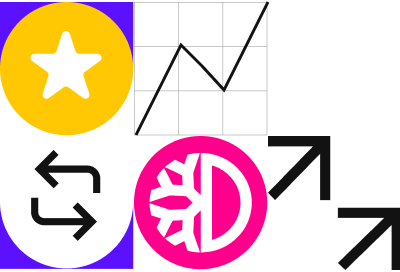
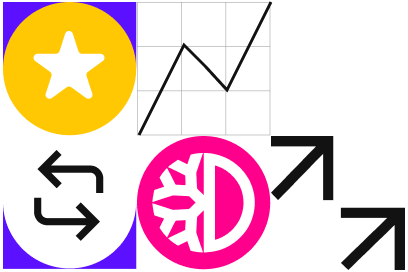
Updated code from code review and added new assets

diff --git a/mobile-app/app/components/VersionTagV2.tsx b/mobile-app/app/components/VersionTagV2.tsx
@@ -1,20 +1,20 @@
 import { tailwind } from '@tailwind'
 import { nativeApplicationVersion } from 'expo-application'
-import { ThemedText, ThemedView } from '@components/themed'
+import { ThemedTextV2, ThemedViewV2 } from '@components/themed'
 import { translate } from '@translations'
 
 export function VersionTagV2 (): JSX.Element {
   return (
-    <ThemedView>
-      <ThemedText
+    <ThemedViewV2>
+      <ThemedTextV2
         dark={tailwind('text-mono-dark-v2-900')}
         light={tailwind('text-mono-light-v2-900')}
         style={tailwind('text-sm font-normal-v2 text-center')}
         testID='version_tag'
       >
         {translate('components/VersionTag', 'Version {{number}}', { number: nativeApplicationVersion ?? '0.0.0' })}
-      </ThemedText>
-    </ThemedView>
+      </ThemedTextV2>
+    </ThemedViewV2>
 
   )
 }

diff --git a/mobile-app/app/screens/WalletNavigator/screens/components/OnboardingCarouselV2.tsx b/mobile-app/app/screens/WalletNavigator/screens/components/OnboardingCarouselV2.tsx
@@ -61,7 +61,7 @@ export function ImageSlide ({ imageDark, imageLight, title, subtitle }: Carousel
     <View style={tailwind('flex-1 items-center justify-center py-8 px-10')}>
       <Image
         source={isLight ? imageLight : imageDark}
-        style={{ width: 220, height: 136 }}
+        style={{ width: 200, height: 136 }}
       />
       <View style={tailwind('h-2/6 items-center justify-center mt-7')}>
         <ThemedTextV2
